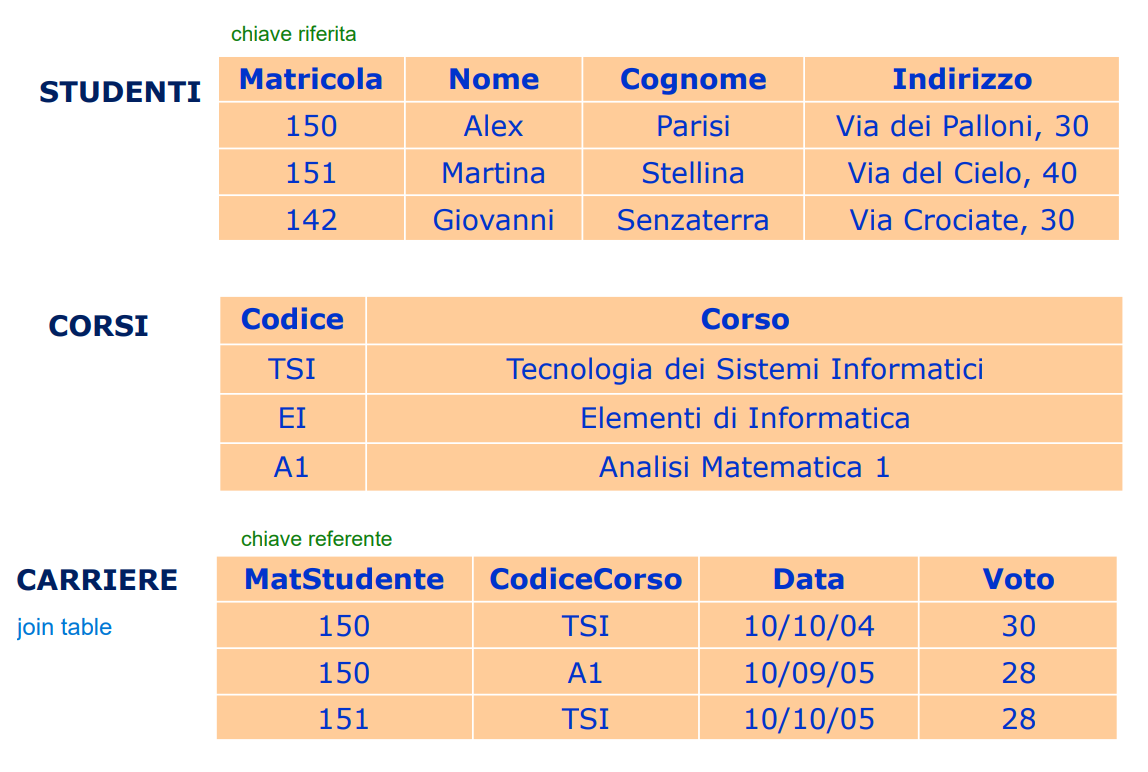
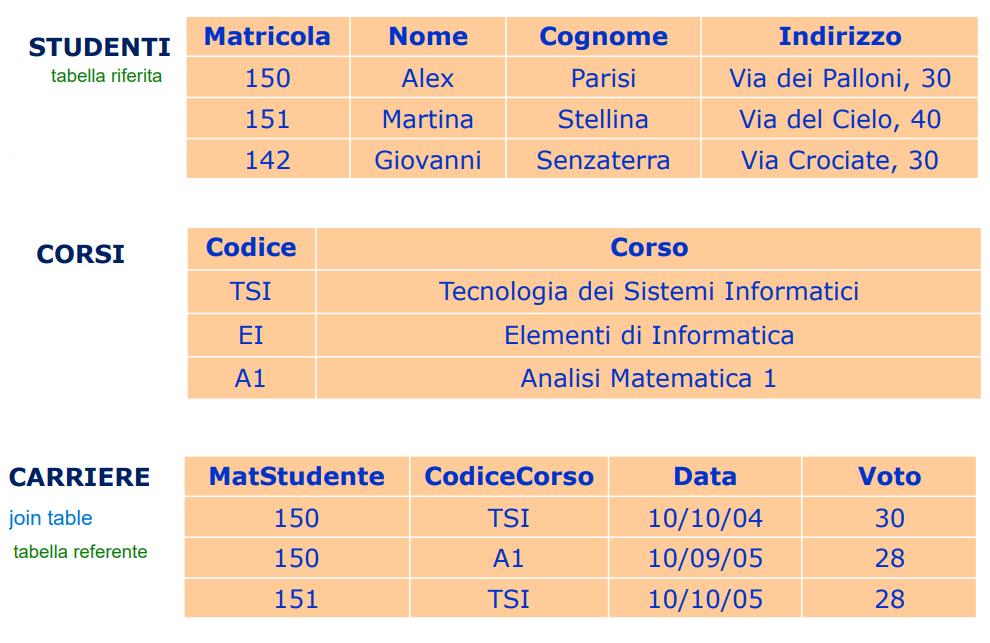
modello relazionale finito

diff --git a/modello-relazionale.md b/modello-relazionale.md
@@ -128,13 +128,33 @@ meccanismo che permetta di associare dati
 presenti in una tabella con quelli di un’altra 
 tabella 
 
-2 Importatnti definizioni:
+2 importanti definizioni:
 
-* **Chiave riferita**
-    - Si trova nella tabella principale
-* **Chiave referente**
-    - Si trova nella tabella in cui è presente il riferimento alla tabella principale
+* **Tabella riferita**
+    - Qui è presente la `chiave primaria`, questa tabella viene "indicara" tramite chiave esterna nelle **tabelle referenti**
+* **Tabella referente**
+    - Qui è presente la `chiave esterna` che va a "indicare" la tabella principale
 
->Esempio:
+>P.S il concetto di "indicare" è una astrazione per capire meglio, non si riferisce ai puntatori, le due tabelle non sono legate da nessun vincolo di memoria e puntatori tra di loro 
+
+>Esempio più intuitivo:
 >![](/img/vincoli_inter_relazionali.png)
 
+>Esempio di sintassi:
+>
+>`STUDENTI(matricola,nome,cognome,indirizzo)` "matricola" chiave primaria
+> 
+>`CORSI(codice,corso)` "codice" chiave primaria
+>
+>`CARRIERE(MatStudente: STUDENTI, CodiceCorso: CORSI,Data, Voto)`
+>
+>`MatStudente` e `CodiceCorso` sono le due chiavi esterne nella tabella referente di nome `CARRIERE` e sono anche le chiavi primarie della stessa tabella
+
+
+
+
+
+
+[Torna all'indice](#indice)
+
+[Torna alla Home](/README.md)

diff --git a/README.md b/README.md
@@ -3,6 +3,7 @@ La documentazione sarà suddivisa nei capitoli delle slide fornite del professor
 # Indice
 * [Introduzione](#introduzione)
 * [Modello relazionale](/modello-relazionale.md)
+* [Algebra relazionale](/algebra-relazionale.md)
 
 
 

diff --git a/algebra-relazionale.md b/algebra-relazionale.md
@@ -1,0 +1,16 @@
+# Modello Relazionale
+
+# Indice
+
+
+
+
+
+
+
+
+
+
+[Torna all'indice](#indice)
+
+[Torna alla Home](/README.md)
